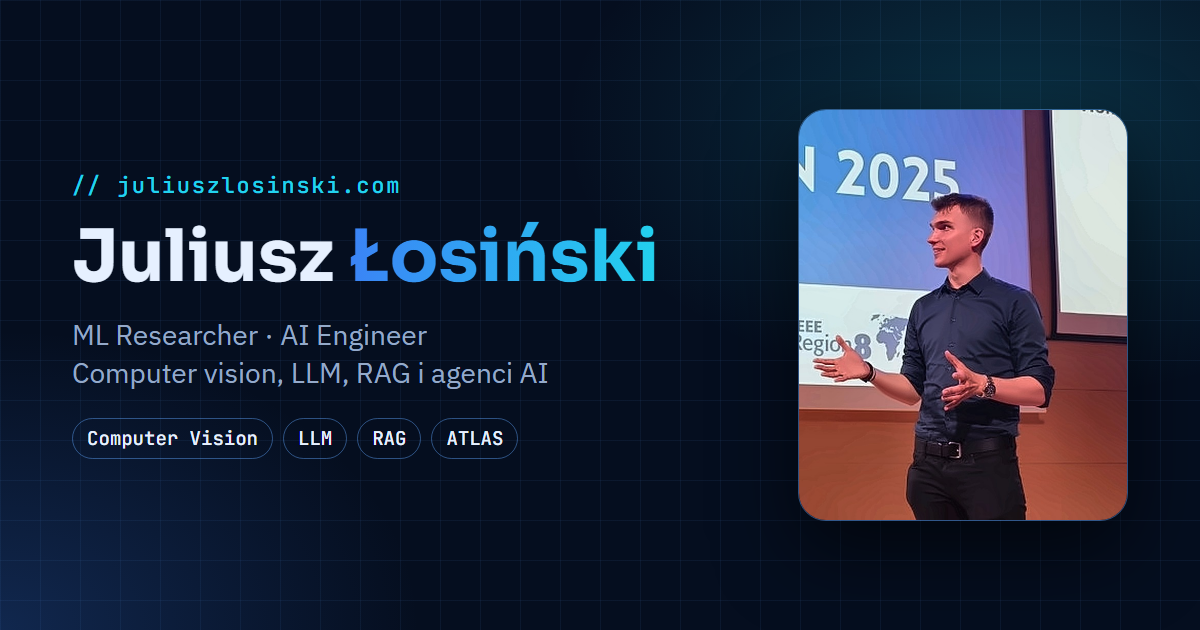
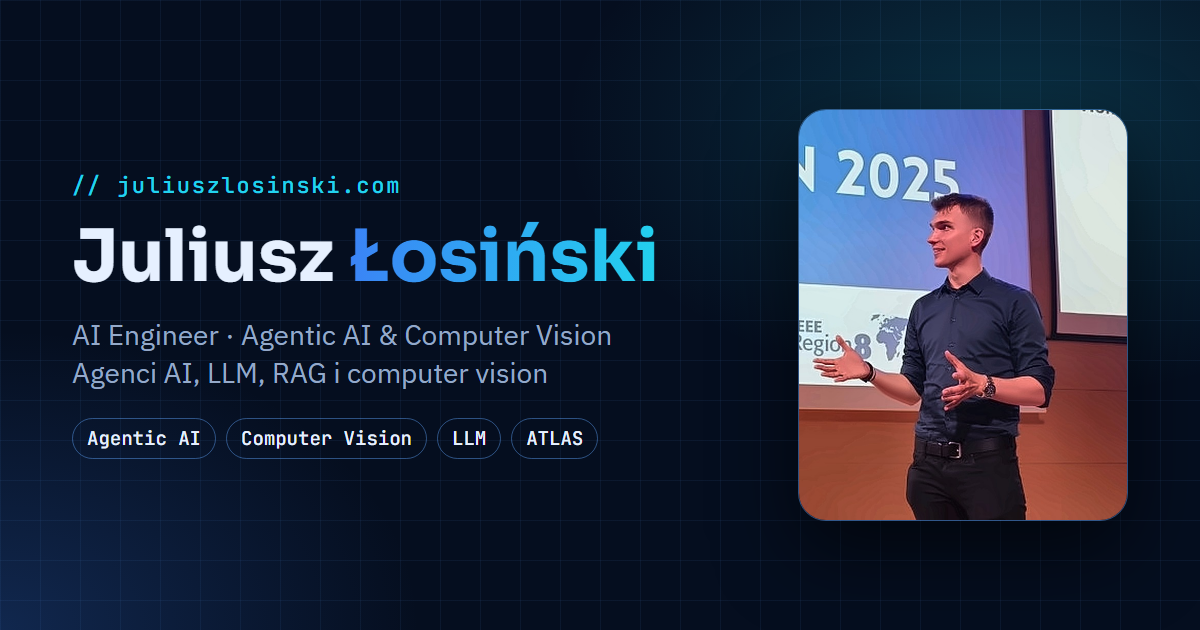
Update

Changed region(s): [[0.0617, 0.5127, 0.5242, 0.6333], [0.0617, 0.6635, 0.4933, 0.7238]]

diff --git a/index.html b/index.html
@@ -3,13 +3,13 @@
 <head>
   <meta charset="utf-8">
   <meta name="viewport" content="width=device-width, initial-scale=1, viewport-fit=cover">
-  <title>Juliusz Łosiński · AI Engineer, Computer Vision</title>
-  <meta name="description" content="Juliusz Łosiński: inżynier AI i badacz computer vision na Uniwersytecie Morskim w Gdyni. Detekcja obiektów, YOLO, modele językowe i agenci AI.">
+  <title>Juliusz Łosiński Agentic AI Engineer, Computer Vision</title>
+  <meta name="description" content="Juliusz Łosiński: inżynier AI, wdrażanie agentów AI (Generative AI, Agentic AI) i computer vision. Badacz na Uniwersytecie Morskim w Gdyni, projekt ATLAS.">
   <meta name="theme-color" content="#050E1F">
   <link rel="icon" href="public/jl.svg" type="image/svg+xml">
   <link rel="canonical" href="https://juliuszlosinski.com/">
   <meta property="og:type" content="website">
-  <meta property="og:title" content="Juliusz Łosiński · ML Researcher i AI Engineer">
+  <meta property="og:title" content="Juliusz Łosiński · Agentic AI Engineer, Computer Vision">
   <meta property="og:description" content="Computer vision, modele językowe, RAG i agenci AI. Projekty, badania i ATLAS.">
   <meta property="og:url" content="https://juliuszlosinski.com/">
   <meta property="og:image" content="https://juliuszlosinski.com/public/og.png">
@@ -19,7 +19,7 @@
   <link rel="preconnect" href="https://fonts.googleapis.com">
   <link rel="preconnect" href="https://fonts.gstatic.com" crossorigin>
   <link rel="stylesheet" href="https://fonts.googleapis.com/css2?family=Sora:wght@500;600;700&family=IBM+Plex+Sans:wght@400;500;600&family=JetBrains+Mono:wght@500&display=swap">
-  <link rel="stylesheet" href="style.css?v=18">
+  <link rel="stylesheet" href="style.css?v=19">
   <script>document.documentElement.classList.add("js")</script>
 </head>
 <body>
@@ -51,7 +51,7 @@
   <section class="hero">
     <div class="wrap">
       <div class="hero-text">
-        <div class="eyebrow">// AI Engineer · Computer Vision &amp; Multimodal AI</div>
+        <div class="eyebrow">// Agentic AI Engineer · Computer&nbsp;Vision</div>
         <h1 data-en="I build systems that <span class=&quot;accent&quot;>see, read and act</span>">Buduję systemy, które <span class="accent">widzą, czytają i działają</span></h1>
         <p class="lead" data-en="I am an AI engineer and computer vision researcher at Gdynia Maritime University. I specialise in deploying AI agents (Generative AI, Agentic AI). My PhD is on detecting International Code of Signals flags, with three peer-reviewed papers so far. Before that I wrote graphics software at Intel and AMD, and in ATLAS I build agents on top of language models.">Jestem inżynierem AI i badaczem computer vision na Uniwersytecie Morskim w Gdyni. Specjalizuję się we wdrażaniu agentów sztucznej inteligencji (Generative AI, Agentic AI).
           W doktoracie zajmuję się detekcją flag Międzynarodowego Kodu Sygnałowego, z trzema recenzowanymi publikacjami. Wcześniej tworzyłem oprogramowanie graficzne w Intelu i AMD, a w projekcie ATLAS buduję agentów opartych na modelach językowych.</p>
@@ -539,6 +539,6 @@
   </div>
 </footer>
 
-<script src="site.js?v=5"></script>
+<script src="site.js?v=7"></script>
 </body>
 </html>

diff --git a/style.css b/style.css
@@ -95,7 +95,7 @@ p { margin: 0; text-align: justify; hyphens: auto; -webkit-hyphens: auto; }
 .btn.ghost:hover { background: rgba(59, 130, 246, .16); }
 .btn svg { width: 18px; height: 18px; }
 
-.portrait { position: relative; justify-self: center; width: min(100%, 360px); margin: 0; }
+.portrait { position: relative; justify-self: center; align-self: start; width: min(100%, 360px); margin: 40px 0 0; }
 .portrait img { width: 100%; height: auto; aspect-ratio: 4 / 5; object-fit: cover; border-radius: 28px; border: 1px solid var(--line-strong); box-shadow: 0 40px 90px rgba(0, 0, 0, .55); }
 .portrait::before {
   content: ""; position: absolute; inset: -14px; border-radius: 36px; z-index: -1;
@@ -195,7 +195,7 @@ footer .wrap { display: flex; justify-content: space-between; gap: 12px; flex-wr
 @media (max-width: 820px) {
   .hero { padding: 120px 0 64px; }
   .hero .wrap { grid-template-columns: 1fr; gap: 40px; }
-  .portrait { width: min(80%, 300px); }
+  .portrait { width: min(80%, 300px); margin-top: 0; }
   .badge { left: auto; right: -12px; }
   .menu-btn { display: block; }
   .nav ul {

diff --git a/site.js b/site.js
@@ -57,8 +57,8 @@
   /* ---------- language: Polish in the markup, English in data-en ---------- */
   const META = {
     pl: { title: document.title, desc: document.querySelector('meta[name="description"]').content },
-    en: { title: "Juliusz Łosiński · AI Engineer, Computer Vision",
-          desc: "Juliusz Łosiński: AI engineer and computer vision researcher at Gdynia Maritime University. Object detection, YOLO, language models and AI agents." }
+    en: { title: "Juliusz Łosiński · Agentic AI Engineer, Computer Vision",
+          desc: "Juliusz Łosiński: AI engineer deploying AI agents (Generative AI, Agentic AI) and computer vision researcher at Gdynia Maritime University. ATLAS project." }
   };
   const langBtn = document.getElementById("lang");
   function setLang(lang) {
